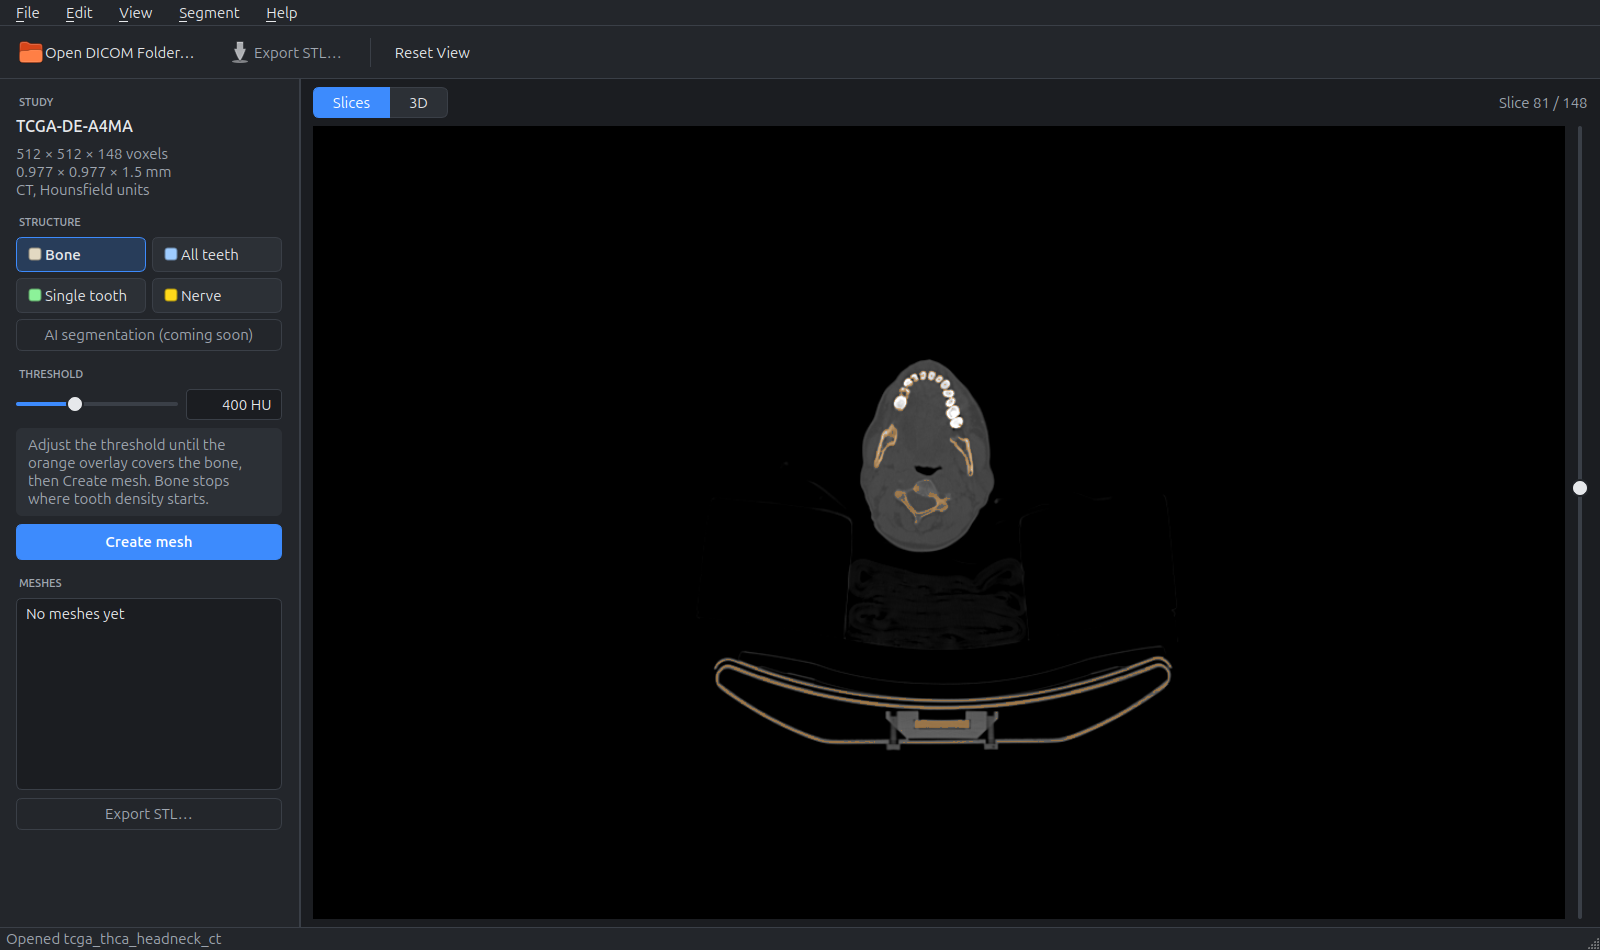
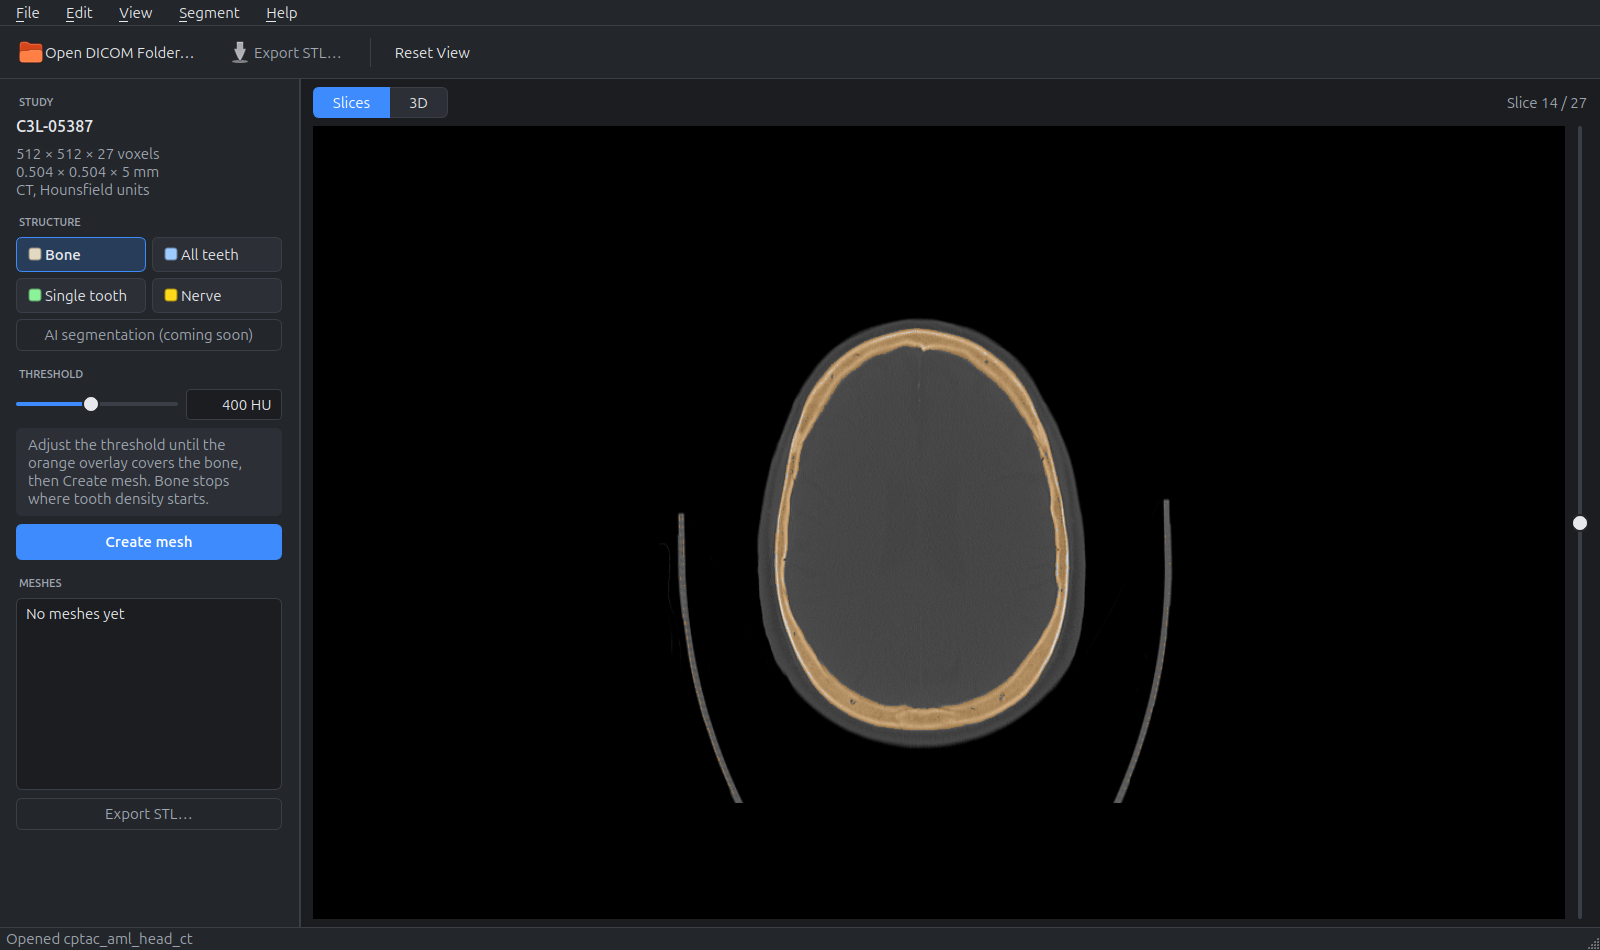
Screenshots from the head-only CT example
Bone threshold, 3D skull and light theme are captured on the head-only
CT (no table); teeth, single tooth and nerve stay on the head and neck CT,
which has teeth. The 3D view with the scanner table is removed.

diff --git a/tests/ui/ui_test.cpp b/tests/ui/ui_test.cpp
@@ -40,6 +40,7 @@
 #include <QVTKOpenGLNativeWidget.h>
 #include <QtTest/QTest>
 
+#include <vtkCamera.h>
 #include <vtkCleanPolyData.h>
 #include <vtkPolyData.h>
 #include <vtkCommand.h>
@@ -61,6 +62,8 @@ namespace {
 
 const char *kRealCt = "example/downloads/tcga_thca_headneck_ct";
 const char *kPhantom = "example/dental_ct";
+// head only (no table), no teeth: used for the bone screenshots
+const char *kHeadCt = "example/downloads/cptac_aml_head_ct";
 const double kPi = 3.14159265358979323846;
 
 int g_failures = 0;
@@ -482,19 +485,30 @@ struct Strata3DUiTest {
   void captureScreenshots() {
     shot("empty-state");
 
-    load(kRealCt);
-    const double teeth = w.m_session.lower(TeethStructure);
-    const int kTeeth = densestSlice(teeth);
-    w.ui->sliceSlider->setValue(kTeeth);
+    // Bone on the head-only CT: no table or shoulders in the mesh
+    load(kHeadCt);
     w.ui->boneButton->click();
     shot("slices-bone-threshold");
     w.ui->createMeshButton->click();
     waitIdle();
+    // three-quarter view, as a user would turn it
+    w.m_meshView->m_renderer->GetActiveCamera()->Azimuth(40);
+    w.m_meshView->m_renderer->ResetCameraClippingRange();
+    w.m_meshView->render();
+    shot("3d-skull");
+    w.m_themeGroup->actions()[1]->trigger();
+    shot("light-theme");
+    w.m_themeGroup->actions()[0]->trigger();
+
+    // Teeth, single tooth and nerve need a scan with teeth: head & neck CT
+    load(kRealCt);
+    const double teeth = w.m_session.lower(TeethStructure);
+    const int kTeeth = densestSlice(teeth);
+    w.ui->sliceSlider->setValue(kTeeth);
     w.ui->teethButton->click();
     shot("slices-teeth-threshold");
     w.ui->createMeshButton->click();
     waitIdle();
-    shot("3d-bone-and-teeth");
 
     w.ui->toothButton->click();
     w.ui->sliceSlider->setValue(kTeeth);
@@ -560,9 +574,8 @@ struct Strata3DUiTest {
     w.ui->createMeshButton->click();
     pump(300);
 
-    // Teeth, the selected tooth and the nerve without the bone, framed on the
-    // jaw (as a user would zoom in)
-    w.m_meshModel->item(0)->setCheckState(Qt::Unchecked);
+    // Teeth, the selected tooth and the nerve, framed on the jaw (as a user
+    // would zoom in)
     w.show3DView();
     double focus[6];
     vtkPolyData *nerve = w.m_session.mesh(NerveStructure);
@@ -580,12 +593,6 @@ struct Strata3DUiTest {
     }
     shot("3d-teeth-and-nerve");
 
-    w.m_themeGroup->actions()[1]->trigger();
-    w.m_meshModel->item(0)->setCheckState(Qt::Checked);
-    w.ui->boneButton->click();
-    w.ui->sliceSlider->setValue(kTeeth);
-    shot("light-theme");
-    w.m_themeGroup->actions()[0]->trigger();
     discardMeshes();
   }
 };

diff --git a/README.md b/README.md
@@ -22,7 +22,7 @@ structure as its own STL mesh for 3D printing, surgical planning or further CAD 
 > **Not a medical device.** Strata3D is not cleared for clinical use. Use it for
 > research, education and engineering work.
 
-![Strata3D: 3D view of a head and neck CT with bone and teeth meshes](docs/assets/screenshots/3d-bone-and-teeth.png)
+![Strata3D: 3D bone mesh of a skull segmented from a head CT](docs/assets/screenshots/3d-skull.png)
 
 ## Contents
 
@@ -57,17 +57,18 @@ explainable tools (thresholds, click-to-select, manual tracing).
 ## Screenshots
 
 All screenshots are captured from the running application by its UI test
-(`strata3d_ui_test --screenshots`) on a real, public, de-identified head and neck CT
-from The Cancer Imaging Archive ([example/README.md](example/README.md)).
+(`strata3d_ui_test --screenshots`) on real, public, de-identified CT scans from The
+Cancer Imaging Archive ([example/README.md](example/README.md)): a head-only CT for the
+bone images and a head and neck CT, which includes the teeth, for the dental tools.
 
 | | |
 |---|---|
-| ![Bone threshold overlay on an axial CT slice](docs/assets/screenshots/slices-bone-threshold.png) | ![Teeth threshold overlay on an axial CT slice](docs/assets/screenshots/slices-teeth-threshold.png) |
-| **Bone threshold.** The orange overlay shows exactly which voxels the bone mesh will contain. | **All teeth.** A higher threshold isolates tooth density (cyan). |
-| ![A tooth selected with a click on the slice](docs/assets/screenshots/single-tooth-selection.png) | ![Nerve canal traced with points on a phantom slice](docs/assets/screenshots/nerve-tracing.png) |
-| **Single tooth.** Click a tooth (red marker); only the region connected to it is meshed. | **Nerve tracing.** Points placed along the mandible below the teeth (an illustration of the tool, not a verified canal). |
-| ![Teeth and nerve tube in the 3D view](docs/assets/screenshots/3d-teeth-and-nerve.png) | ![Light theme with bone, teeth and nerve meshes](docs/assets/screenshots/light-theme.png) |
-| **3D view.** Teeth, the selected tooth (green) and the traced nerve, bone hidden. Each mesh can be shown or hidden. | **Light theme.** Dark is the default; View ▸ Theme switches. |
+| ![Bone threshold overlay on an axial slice of a head CT](docs/assets/screenshots/slices-bone-threshold.png) | ![The skull bone mesh in the light theme](docs/assets/screenshots/light-theme.png) |
+| **Bone threshold.** The orange overlay shows exactly which voxels the bone mesh will contain; the thin head cradle beside the skull stays below the threshold. | **Light theme.** The skull mesh from the same scan; dark is the default, View ▸ Theme switches. |
+| ![Teeth threshold overlay on an axial CT slice](docs/assets/screenshots/slices-teeth-threshold.png) | ![A tooth selected with a click on the slice](docs/assets/screenshots/single-tooth-selection.png) |
+| **All teeth.** A higher threshold isolates tooth density (cyan). | **Single tooth.** Click a tooth (red marker); only the region connected to it is meshed. |
+| ![Nerve canal traced with points on a CT slice](docs/assets/screenshots/nerve-tracing.png) | ![Teeth, a selected tooth and the nerve tube in the 3D view](docs/assets/screenshots/3d-teeth-and-nerve.png) |
+| **Nerve tracing.** Points placed along the mandible below the teeth (an illustration of the tool, not a verified canal). | **3D view.** Teeth, the selected tooth (green) and the traced nerve. Each mesh can be shown or hidden. |
 
 <details>
 <summary>Start screen</summary>

diff --git a/docs/development.md b/docs/development.md
@@ -99,7 +99,9 @@ The DicomToMesh submodule has its own tests (`-DTESTDICOM2MESHLIB=ON`, run from
 
 ### Screenshots
 
-The README images are captured from the running application, always on the real CT:
+The README images are captured from the running application, always on real scans:
+the head-only CT (`example/downloads/cptac_aml_head_ct`) for bone, the head and neck CT
+for teeth, single tooth and nerve:
 
 ```bash
 ./build/strata3d_ui_test --screenshots docs/assets/screenshots
@@ -107,7 +109,10 @@ The README images are captured from the running application, always on the real 
 
 ### Test data
 
-- `example/downloads/tcga_thca_headneck_ct/`: real head and neck CT (TCIA, CC BY 3.0).
+- `example/downloads/tcga_thca_headneck_ct/`: real head and neck CT with teeth (TCIA,
+  CC BY 3.0).
+- `example/downloads/cptac_aml_head_ct/`: real head-only CT without table, no teeth (TCIA,
+  CC BY 4.0).
 - `example/dental_ct/`, `example/dental_cbct/`: synthetic dental phantom
   (`tools/dental_phantom.cpp`; geometry documented in `example/README.md`). Used by
   tests with known geometry, not for screenshots.
